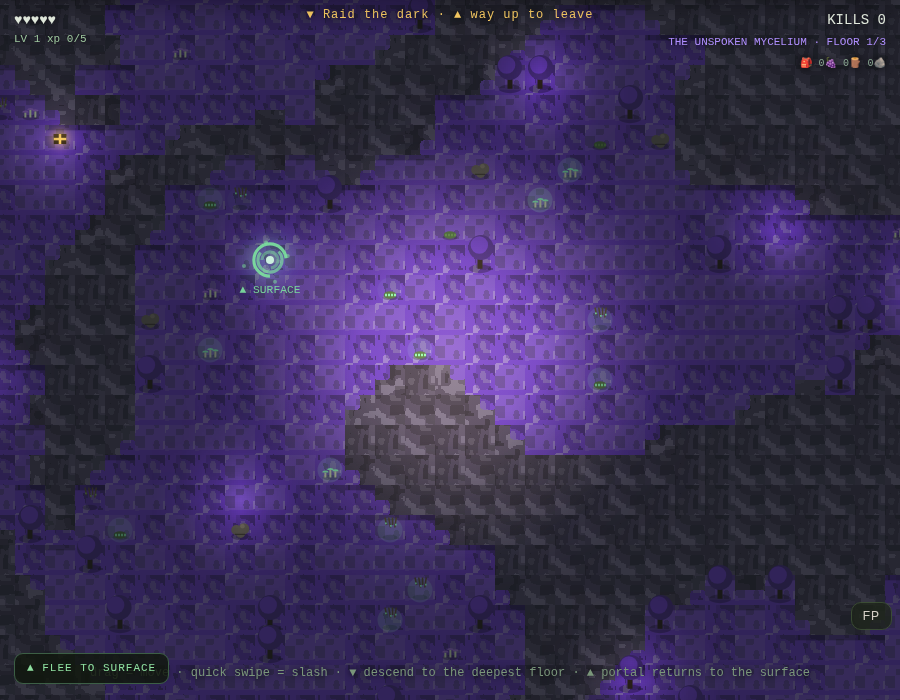
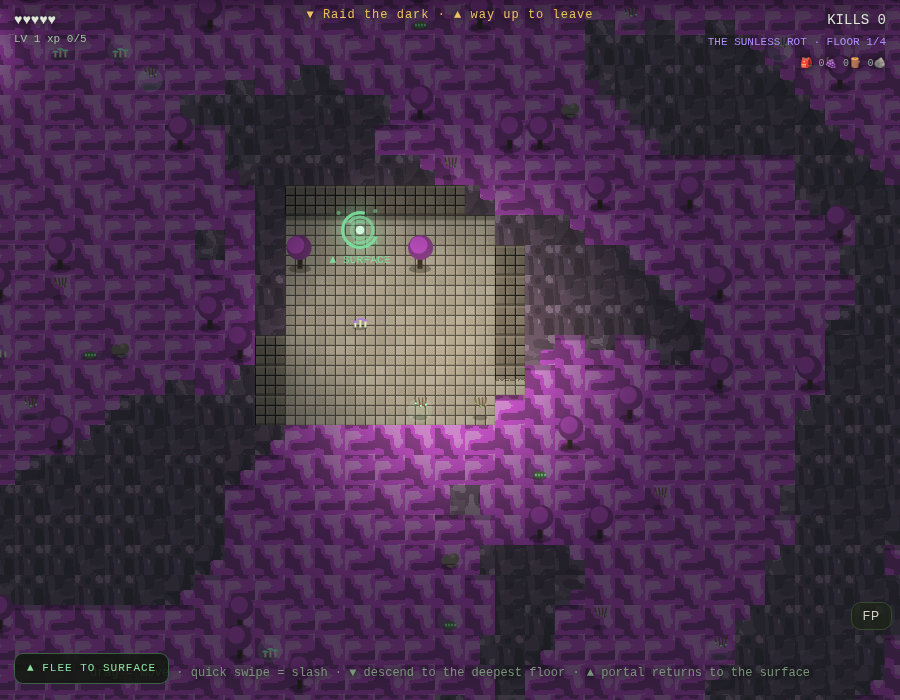
Space Forge: tune procedural spaces live from the sim controls
Add a Space Forge section to the gardener's bench. It renders a live
preview of the unified interior engine and exposes its generator:
rooms vs cave mode, size, room count and min/max, hall width, cave
fill and smoothing, how much of a cavern is built rather than raw
rock, and dropdowns for the wall, floor and accent materials drawn
from the structural tile forge. Every change redraws the layout at
once, with a readout of rooms, open cells and wall share.

Raise a building here drops the player straight into a space built
from the current settings, so a layout can be tuned and then walked.

Claude-Session: https://claude.ai/code/session_01LBJLomQRzXkWuF2xNSsFeU

diff --git a/dist/seed-and-sage.html b/dist/seed-and-sage.html
@@ -582,6 +582,15 @@ button:active{transform:translateY(1px)}
     <div id="edAnimalBtns"></div>
     <div id="edAnimalSpecies"></div>
   </div>
+  <div class="grp" id="edSpaceGroup">
+    <div class="grpTitle">Space Forge — buildings &amp; dungeons</div>
+    <div style="display:flex;gap:10px;align-items:flex-start;flex-wrap:wrap">
+      <canvas id="edSpaceCv" width="240" height="180"
+        style="background:#0c150a;border:1.5px solid #2c4a23;border-radius:6px;image-rendering:pixelated;width:240px;height:180px"></canvas>
+      <div id="edSpaceInfo" style="font-size:10.5px;color:#8fa885;line-height:1.6;min-width:120px"></div>
+    </div>
+    <div id="edSpaceCtl"></div>
+  </div>
   <div class="grp" id="edSelected"></div>
 </div>
 
@@ -13880,6 +13889,34 @@ return {
   fpToggle:()=>{toggleSurfaceFP();return sfpActive;},
   fpSet:(on)=>{setSurfaceFP(on);return sfpActive;},
   fpLook:(dy)=>{sfpYaw+=dy;},
+  // step into a space built from the Space Forge's tuned settings
+  forgeBuildingHere:(P)=>{
+    if(typeof Interior==='undefined')return {ok:false,why:'engine missing'};
+    const b={id:-999,tp:'biz',x:(hero.x/TILE)|0,y:(hero.y/TILE)|0,w:3,h:3,done:true,gone:false,decay:0,stock:{}};
+    const gw=Math.max(12,P.W|0), gh=Math.max(10,P.H|0);
+    const space=Interior.generate({mode:P.mode,W:gw,H:gh,res:TILE,seed:(P.seed|0)||7,
+      roomCount:P.roomCount|0,roomMin:P.roomMin|0,roomMax:P.roomMax|0,hallWidth:P.hallWidth|0,
+      caveFill:P.caveFill,caveSteps:P.caveSteps|0,structMix:P.structMix,
+      mat:P.mat,mat2:P.mat2,floorMat:P.floorMat,natural:P.mode==='cave',
+      grassHex:surfSkin?surfSkin.grass:'#4a7a3a', dirtHex:surfSkin?surfSkin.dirt:'#6a563a',
+      edge:P.mode==='cave'?'rough':'beveled'});
+    const solid=new Uint8Array(gw*gh); for(let i=0;i<gw*gh;i++)solid[i]=space.solid[i];
+    const si=(x,y)=>y*gw+x, dcx=(gw/2)|0;
+    const sp=space.spawnPoint();
+    const intr={b,gw,gh,solid,si,door:[dcx,gh-1],doorGap:[dcx,dcx-1],furniture:[],occupants:[],
+      traps:[],foes:[],loot:[],decay:0,wallMask:solid,breakable:null,wallHp:null,breakBase:16,
+      rooms:space.rooms.map(r=>({x:r.x,y:r.y,w:r.w,h:r.h,ax:r.cx,ay:r.cy})),space,
+      name:'a forged '+(P.mode==='cave'?'hollow':'hall'),floor:'#5a4230',wall:'#3a2f22'};
+    bakeInteriorBg(intr);
+    hero._sx=hero.x;hero._sy=hero.y;hero._scz=cam.z;
+    interior=intr;
+    hero.x=sp[0];hero.y=sp[1];hero.moving=false;
+    cam.x=hero.x;cam.y=hero.y;cam.z=Math.max(2.2,cam.z);
+    stick=null;inDialog=false;follow=false;
+    sfpBindOnce(); setSurfaceFP(false); fpShowToggle(true);
+    toast('You step into '+intr.name+'.');
+    return {ok:true,rooms:intr.rooms.length,gw,gh};
+  },
   interiorSpace:()=>{ const I=interior; if(!I)return null;
     if(!I.space) return {engine:false};
     const sp=I.space, W=sp.W, H=sp.H;
@@ -13887,7 +13924,8 @@ return {
     let stuck=0, open=0;
     for(let y=0;y<H;y++)for(let x=0;x<W;x++){ if(sp.solid[y*W+x])continue; open++;
       if(sp.blockedAt((x+0.5)*sp.res,(y+0.5)*sp.res)) stuck++; }
-    const d=I.door, sx=d[0], sy=d[1]-1;
+    const d=I.door; let sx=d[0], sy=d[1]-1;
+    if(sp.solid[sy*W+sx]){ const p=sp.spawnPoint(); sx=(p[0]/sp.res)|0; sy=(p[1]/sp.res)|0; }
     const seen=new Set(); const st=[[sx,sy]]; seen.add(sy*W+sx);
     while(st.length){ const[x,y]=st.pop();
       for(const[dx,dy]of[[1,0],[-1,0],[0,1],[0,-1]]){ const nx=x+dx,ny=y+dy;
@@ -16569,8 +16607,91 @@ function init(){
   for(const k of A().AF.KEYS) chips.push(btn((glyphs[k]||'🐾')+' '+k,()=>A().spawnAnimal(k)));
   sp.appendChild(row(...chips));
   drawAnimalPreview();
+  buildSpaceForge();
 }
-return {init,setOpen,get open(){return open}};
+
+/* ================= SPACE FORGE =================
+   Tweak the procedural generation of enclosed spaces — buildings and
+   dungeons alike — and watch the layout redraw live. */
+const SF={mode:'rooms',W:44,H:32,roomCount:7,roomMin:4,roomMax:10,hallWidth:2,
+          caveFill:0.56,caveSteps:4,structMix:0.6,mat:'brick',floorMat:'plank',
+          mat2:'cutstone',natural:false,seed:1234};
+let sfSpace=null;
+function sfSlider(label,key,min,max,step,fmt){
+  const wrap=document.createElement('div');
+  wrap.style.cssText='display:flex;align-items:center;gap:8px;margin:3px 0';
+  const l=document.createElement('span');
+  l.style.cssText='flex:0 0 96px;font-size:10.5px;color:#8fa885';
+  const val=()=>fmt?fmt(SF[key]):SF[key];
+  l.textContent=label+' '+val();
+  const inp=document.createElement('input');
+  inp.type='range';inp.min=min;inp.max=max;inp.step=step;inp.value=SF[key];
+  inp.style.cssText='flex:1;height:5px;border-radius:99px;background:#243021;-webkit-appearance:none;appearance:none;outline:none';
+  inp.oninput=()=>{SF[key]=+inp.value;l.textContent=label+' '+val();sfRender();};
+  wrap.appendChild(l);wrap.appendChild(inp);
+  return wrap;
+}
+function sfSelect(label,key,opts){
+  const wrap=document.createElement('div');
+  wrap.style.cssText='display:flex;align-items:center;gap:8px;margin:3px 0';
+  const l=document.createElement('span');
+  l.style.cssText='flex:0 0 96px;font-size:10.5px;color:#8fa885';l.textContent=label;
+  const sel=document.createElement('select');
+  sel.style.cssText='flex:1;background:#0c150a;border:1.5px solid #2c4a23;color:#a0e08f;border-radius:6px;padding:4px 6px;font-size:11px';
+  for(const o of opts){const op=document.createElement('option');op.value=o;op.textContent=o;sel.appendChild(op);}
+  sel.value=SF[key]; sel.onchange=()=>{SF[key]=sel.value;sfRender();};
+  wrap.appendChild(l);wrap.appendChild(sel);
+  return wrap;
+}
+function sfRender(){
+  const cv=$('edSpaceCv'); if(!cv||typeof Interior==='undefined')return;
+  const g=cv.getContext('2d'); g.imageSmoothingEnabled=false;
+  g.fillStyle='#0c150a'; g.fillRect(0,0,cv.width,cv.height);
+  try{
+    sfSpace=Interior.generate({mode:SF.mode,W:SF.W|0,H:SF.H|0,res:8,seed:SF.seed|0,
+      roomCount:SF.roomCount|0,roomMin:SF.roomMin|0,roomMax:SF.roomMax|0,hallWidth:SF.hallWidth|0,
+      caveFill:SF.caveFill,caveSteps:SF.caveSteps|0,structMix:SF.structMix,
+      mat:SF.mat,mat2:SF.mat2,floorMat:SF.floorMat,natural:SF.mode==='cave',
+      edge:SF.mode==='cave'?'rough':'beveled'});
+    const bg=sfSpace.bake();
+    const s=Math.min(cv.width/bg.width,cv.height/bg.height);
+    g.drawImage(bg,0,0,bg.width,bg.height,
+      ((cv.width-bg.width*s)/2)|0,((cv.height-bg.height*s)/2)|0,(bg.width*s)|0,(bg.height*s)|0);
+    let wall=0; for(let i=0;i<sfSpace.W*sfSpace.H;i++) if(sfSpace.solid[i])wall++;
+    const inf=$('edSpaceInfo');
+    if(inf) inf.innerHTML='<b style="color:#a0e08f">'+SF.mode+'</b><br>'+
+      SF.W+'×'+SF.H+' tiles<br>rooms: '+sfSpace.rooms.length+
+      '<br>open: '+sfSpace.openCells().length+'<br>wall: '+Math.round(wall/(sfSpace.W*sfSpace.H)*100)+'%'+
+      '<br>walls: '+SF.mat+'<br>floors: '+(SF.floorMat||SF.mat);
+  }catch(e){ g.fillStyle='#d66'; g.font='10px monospace'; g.fillText('gen error: '+e.message,6,16); }
+}
+function buildSpaceForge(){
+  const host=$('edSpaceCtl'); if(!host||typeof Interior==='undefined')return;
+  const mats=(typeof StructForge!=='undefined')?StructForge.PRESETS:['cutstone'];
+  host.appendChild(row(
+    btn('🏛 Rooms',()=>{SF.mode='rooms';sfRender()}),
+    btn('🕳 Cave',()=>{SF.mode='cave';sfRender()}),
+    btn('🎲 Reseed',()=>{SF.seed=(Math.random()*1e6)|0;sfRender()})
+  ));
+  host.appendChild(sfSlider('Width','W',18,64,1));
+  host.appendChild(sfSlider('Height','H',14,48,1));
+  host.appendChild(sfSlider('Rooms','roomCount',1,14,1));
+  host.appendChild(sfSlider('Room min','roomMin',3,9,1));
+  host.appendChild(sfSlider('Room max','roomMax',4,16,1));
+  host.appendChild(sfSlider('Hall width','hallWidth',1,4,1));
+  host.appendChild(sfSlider('Cave fill','caveFill',0.40,0.68,0.005,v=>v.toFixed(3)));
+  host.appendChild(sfSlider('Cave smooth','caveSteps',1,6,1));
+  host.appendChild(sfSlider('Built mix','structMix',0,1,0.05,v=>v.toFixed(2)));
+  host.appendChild(sfSelect('Wall stuff','mat',mats));
+  host.appendChild(sfSelect('Floor stuff','floorMat',mats));
+  host.appendChild(sfSelect('Accent stuff','mat2',mats));
+  host.appendChild(row(
+    btn('🏠 Raise a building here',()=>{ if(A().forgeBuildingHere){ const r=A().forgeBuildingHere(SF); setOpen(false);
+        if(r&&r.ok===false)alert(r.why||'no room for it here'); } },'big')
+  ));
+  sfRender();
+}
+return {init,setOpen,get open(){return open},get spaceParams(){return SF},sfRender};
 })();
 
 </script>

diff --git a/js/editor.js b/js/editor.js
@@ -217,6 +217,89 @@ function init(){
   for(const k of A().AF.KEYS) chips.push(btn((glyphs[k]||'🐾')+' '+k,()=>A().spawnAnimal(k)));
   sp.appendChild(row(...chips));
   drawAnimalPreview();
+  buildSpaceForge();
 }
-return {init,setOpen,get open(){return open}};
+
+/* ================= SPACE FORGE =================
+   Tweak the procedural generation of enclosed spaces — buildings and
+   dungeons alike — and watch the layout redraw live. */
+const SF={mode:'rooms',W:44,H:32,roomCount:7,roomMin:4,roomMax:10,hallWidth:2,
+          caveFill:0.56,caveSteps:4,structMix:0.6,mat:'brick',floorMat:'plank',
+          mat2:'cutstone',natural:false,seed:1234};
+let sfSpace=null;
+function sfSlider(label,key,min,max,step,fmt){
+  const wrap=document.createElement('div');
+  wrap.style.cssText='display:flex;align-items:center;gap:8px;margin:3px 0';
+  const l=document.createElement('span');
+  l.style.cssText='flex:0 0 96px;font-size:10.5px;color:#8fa885';
+  const val=()=>fmt?fmt(SF[key]):SF[key];
+  l.textContent=label+' '+val();
+  const inp=document.createElement('input');
+  inp.type='range';inp.min=min;inp.max=max;inp.step=step;inp.value=SF[key];
+  inp.style.cssText='flex:1;height:5px;border-radius:99px;background:#243021;-webkit-appearance:none;appearance:none;outline:none';
+  inp.oninput=()=>{SF[key]=+inp.value;l.textContent=label+' '+val();sfRender();};
+  wrap.appendChild(l);wrap.appendChild(inp);
+  return wrap;
+}
+function sfSelect(label,key,opts){
+  const wrap=document.createElement('div');
+  wrap.style.cssText='display:flex;align-items:center;gap:8px;margin:3px 0';
+  const l=document.createElement('span');
+  l.style.cssText='flex:0 0 96px;font-size:10.5px;color:#8fa885';l.textContent=label;
+  const sel=document.createElement('select');
+  sel.style.cssText='flex:1;background:#0c150a;border:1.5px solid #2c4a23;color:#a0e08f;border-radius:6px;padding:4px 6px;font-size:11px';
+  for(const o of opts){const op=document.createElement('option');op.value=o;op.textContent=o;sel.appendChild(op);}
+  sel.value=SF[key]; sel.onchange=()=>{SF[key]=sel.value;sfRender();};
+  wrap.appendChild(l);wrap.appendChild(sel);
+  return wrap;
+}
+function sfRender(){
+  const cv=$('edSpaceCv'); if(!cv||typeof Interior==='undefined')return;
+  const g=cv.getContext('2d'); g.imageSmoothingEnabled=false;
+  g.fillStyle='#0c150a'; g.fillRect(0,0,cv.width,cv.height);
+  try{
+    sfSpace=Interior.generate({mode:SF.mode,W:SF.W|0,H:SF.H|0,res:8,seed:SF.seed|0,
+      roomCount:SF.roomCount|0,roomMin:SF.roomMin|0,roomMax:SF.roomMax|0,hallWidth:SF.hallWidth|0,
+      caveFill:SF.caveFill,caveSteps:SF.caveSteps|0,structMix:SF.structMix,
+      mat:SF.mat,mat2:SF.mat2,floorMat:SF.floorMat,natural:SF.mode==='cave',
+      edge:SF.mode==='cave'?'rough':'beveled'});
+    const bg=sfSpace.bake();
+    const s=Math.min(cv.width/bg.width,cv.height/bg.height);
+    g.drawImage(bg,0,0,bg.width,bg.height,
+      ((cv.width-bg.width*s)/2)|0,((cv.height-bg.height*s)/2)|0,(bg.width*s)|0,(bg.height*s)|0);
+    let wall=0; for(let i=0;i<sfSpace.W*sfSpace.H;i++) if(sfSpace.solid[i])wall++;
+    const inf=$('edSpaceInfo');
+    if(inf) inf.innerHTML='<b style="color:#a0e08f">'+SF.mode+'</b><br>'+
+      SF.W+'×'+SF.H+' tiles<br>rooms: '+sfSpace.rooms.length+
+      '<br>open: '+sfSpace.openCells().length+'<br>wall: '+Math.round(wall/(sfSpace.W*sfSpace.H)*100)+'%'+
+      '<br>walls: '+SF.mat+'<br>floors: '+(SF.floorMat||SF.mat);
+  }catch(e){ g.fillStyle='#d66'; g.font='10px monospace'; g.fillText('gen error: '+e.message,6,16); }
+}
+function buildSpaceForge(){
+  const host=$('edSpaceCtl'); if(!host||typeof Interior==='undefined')return;
+  const mats=(typeof StructForge!=='undefined')?StructForge.PRESETS:['cutstone'];
+  host.appendChild(row(
+    btn('🏛 Rooms',()=>{SF.mode='rooms';sfRender()}),
+    btn('🕳 Cave',()=>{SF.mode='cave';sfRender()}),
+    btn('🎲 Reseed',()=>{SF.seed=(Math.random()*1e6)|0;sfRender()})
+  ));
+  host.appendChild(sfSlider('Width','W',18,64,1));
+  host.appendChild(sfSlider('Height','H',14,48,1));
+  host.appendChild(sfSlider('Rooms','roomCount',1,14,1));
+  host.appendChild(sfSlider('Room min','roomMin',3,9,1));
+  host.appendChild(sfSlider('Room max','roomMax',4,16,1));
+  host.appendChild(sfSlider('Hall width','hallWidth',1,4,1));
+  host.appendChild(sfSlider('Cave fill','caveFill',0.40,0.68,0.005,v=>v.toFixed(3)));
+  host.appendChild(sfSlider('Cave smooth','caveSteps',1,6,1));
+  host.appendChild(sfSlider('Built mix','structMix',0,1,0.05,v=>v.toFixed(2)));
+  host.appendChild(sfSelect('Wall stuff','mat',mats));
+  host.appendChild(sfSelect('Floor stuff','floorMat',mats));
+  host.appendChild(sfSelect('Accent stuff','mat2',mats));
+  host.appendChild(row(
+    btn('🏠 Raise a building here',()=>{ if(A().forgeBuildingHere){ const r=A().forgeBuildingHere(SF); setOpen(false);
+        if(r&&r.ok===false)alert(r.why||'no room for it here'); } },'big')
+  ));
+  sfRender();
+}
+return {init,setOpen,get open(){return open},get spaceParams(){return SF},sfRender};
 })();

diff --git a/js/surface.js b/js/surface.js
@@ -9377,6 +9377,34 @@ return {
   fpToggle:()=>{toggleSurfaceFP();return sfpActive;},
   fpSet:(on)=>{setSurfaceFP(on);return sfpActive;},
   fpLook:(dy)=>{sfpYaw+=dy;},
+  // step into a space built from the Space Forge's tuned settings
+  forgeBuildingHere:(P)=>{
+    if(typeof Interior==='undefined')return {ok:false,why:'engine missing'};
+    const b={id:-999,tp:'biz',x:(hero.x/TILE)|0,y:(hero.y/TILE)|0,w:3,h:3,done:true,gone:false,decay:0,stock:{}};
+    const gw=Math.max(12,P.W|0), gh=Math.max(10,P.H|0);
+    const space=Interior.generate({mode:P.mode,W:gw,H:gh,res:TILE,seed:(P.seed|0)||7,
+      roomCount:P.roomCount|0,roomMin:P.roomMin|0,roomMax:P.roomMax|0,hallWidth:P.hallWidth|0,
+      caveFill:P.caveFill,caveSteps:P.caveSteps|0,structMix:P.structMix,
+      mat:P.mat,mat2:P.mat2,floorMat:P.floorMat,natural:P.mode==='cave',
+      grassHex:surfSkin?surfSkin.grass:'#4a7a3a', dirtHex:surfSkin?surfSkin.dirt:'#6a563a',
+      edge:P.mode==='cave'?'rough':'beveled'});
+    const solid=new Uint8Array(gw*gh); for(let i=0;i<gw*gh;i++)solid[i]=space.solid[i];
+    const si=(x,y)=>y*gw+x, dcx=(gw/2)|0;
+    const sp=space.spawnPoint();
+    const intr={b,gw,gh,solid,si,door:[dcx,gh-1],doorGap:[dcx,dcx-1],furniture:[],occupants:[],
+      traps:[],foes:[],loot:[],decay:0,wallMask:solid,breakable:null,wallHp:null,breakBase:16,
+      rooms:space.rooms.map(r=>({x:r.x,y:r.y,w:r.w,h:r.h,ax:r.cx,ay:r.cy})),space,
+      name:'a forged '+(P.mode==='cave'?'hollow':'hall'),floor:'#5a4230',wall:'#3a2f22'};
+    bakeInteriorBg(intr);
+    hero._sx=hero.x;hero._sy=hero.y;hero._scz=cam.z;
+    interior=intr;
+    hero.x=sp[0];hero.y=sp[1];hero.moving=false;
+    cam.x=hero.x;cam.y=hero.y;cam.z=Math.max(2.2,cam.z);
+    stick=null;inDialog=false;follow=false;
+    sfpBindOnce(); setSurfaceFP(false); fpShowToggle(true);
+    toast('You step into '+intr.name+'.');
+    return {ok:true,rooms:intr.rooms.length,gw,gh};
+  },
   interiorSpace:()=>{ const I=interior; if(!I)return null;
     if(!I.space) return {engine:false};
     const sp=I.space, W=sp.W, H=sp.H;
@@ -9384,7 +9412,8 @@ return {
     let stuck=0, open=0;
     for(let y=0;y<H;y++)for(let x=0;x<W;x++){ if(sp.solid[y*W+x])continue; open++;
       if(sp.blockedAt((x+0.5)*sp.res,(y+0.5)*sp.res)) stuck++; }
-    const d=I.door, sx=d[0], sy=d[1]-1;
+    const d=I.door; let sx=d[0], sy=d[1]-1;
+    if(sp.solid[sy*W+sx]){ const p=sp.spawnPoint(); sx=(p[0]/sp.res)|0; sy=(p[1]/sp.res)|0; }
     const seen=new Set(); const st=[[sx,sy]]; seen.add(sy*W+sx);
     while(st.length){ const[x,y]=st.pop();
       for(const[dx,dy]of[[1,0],[-1,0],[0,1],[0,-1]]){ const nx=x+dx,ny=y+dy;

diff --git a/index.html b/index.html
@@ -582,6 +582,15 @@ button:active{transform:translateY(1px)}
     <div id="edAnimalBtns"></div>
     <div id="edAnimalSpecies"></div>
   </div>
+  <div class="grp" id="edSpaceGroup">
+    <div class="grpTitle">Space Forge — buildings &amp; dungeons</div>
+    <div style="display:flex;gap:10px;align-items:flex-start;flex-wrap:wrap">
+      <canvas id="edSpaceCv" width="240" height="180"
+        style="background:#0c150a;border:1.5px solid #2c4a23;border-radius:6px;image-rendering:pixelated;width:240px;height:180px"></canvas>
+      <div id="edSpaceInfo" style="font-size:10.5px;color:#8fa885;line-height:1.6;min-width:120px"></div>
+    </div>
+    <div id="edSpaceCtl"></div>
+  </div>
   <div class="grp" id="edSelected"></div>
 </div>
 
